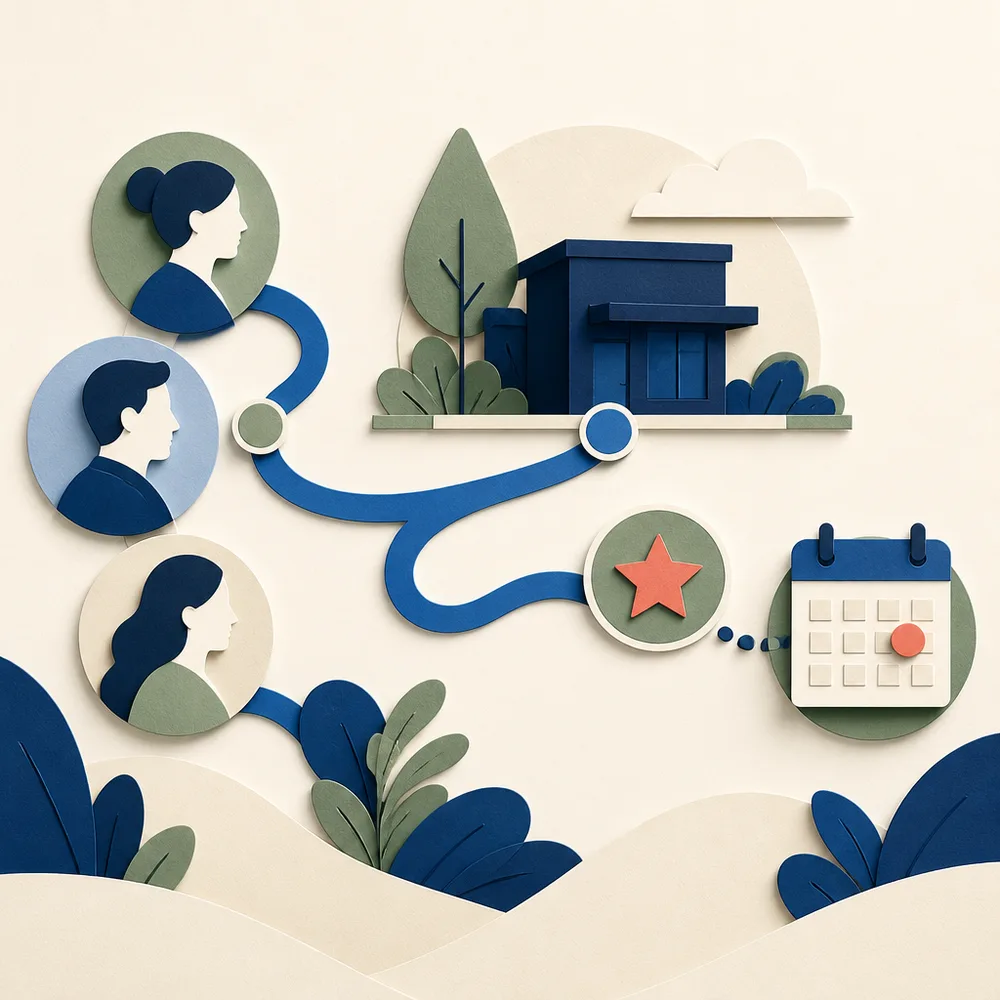
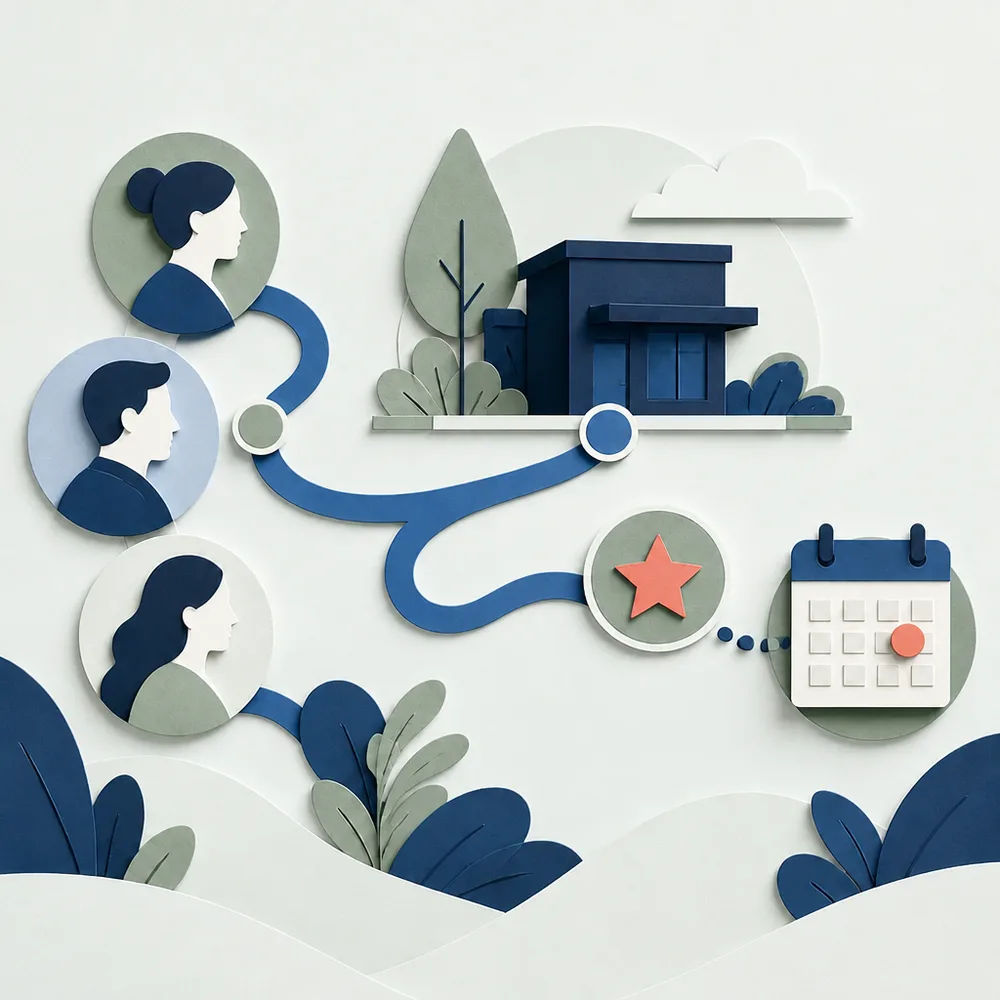
Update marketing page and editorial asset
Replit-Commit-Author: Agent

diff --git a/artifacts/mailflow-saas/src/pages/marketing.tsx b/artifacts/mailflow-saas/src/pages/marketing.tsx
@@ -201,14 +201,14 @@ function ProspectManagementPreview() {
 
 function ProspectManagementFeatureImage() {
   return (
-    <figure className="m-0 overflow-hidden rounded-2xl border border-[#d8e2df] bg-[#f7f3ea] shadow-[0_18px_40px_rgba(29,48,70,.11)]">
+    <figure className="m-0 overflow-hidden rounded-2xl border border-[#d8e2df] bg-[#eff4f3] shadow-[0_18px_40px_rgba(29,48,70,.11)]">
       <img
         src="/prospect-management-editorial.webp"
         alt="An editorial illustration of people connected to a company, an opportunity milestone, and a follow-up calendar."
-        width="1024"
-        height="1024"
-        decoding="async"
-        className="block aspect-square w-full object-cover"
+        width="1000"
+        height="1000"
+        decoding="sync"
+        className="block aspect-[4/3] w-full object-cover object-center"
       />
       <figcaption className="flex items-center justify-between gap-4 border-t border-[#e7ece9] bg-white px-4 py-3 sm:px-5">
         <span>
